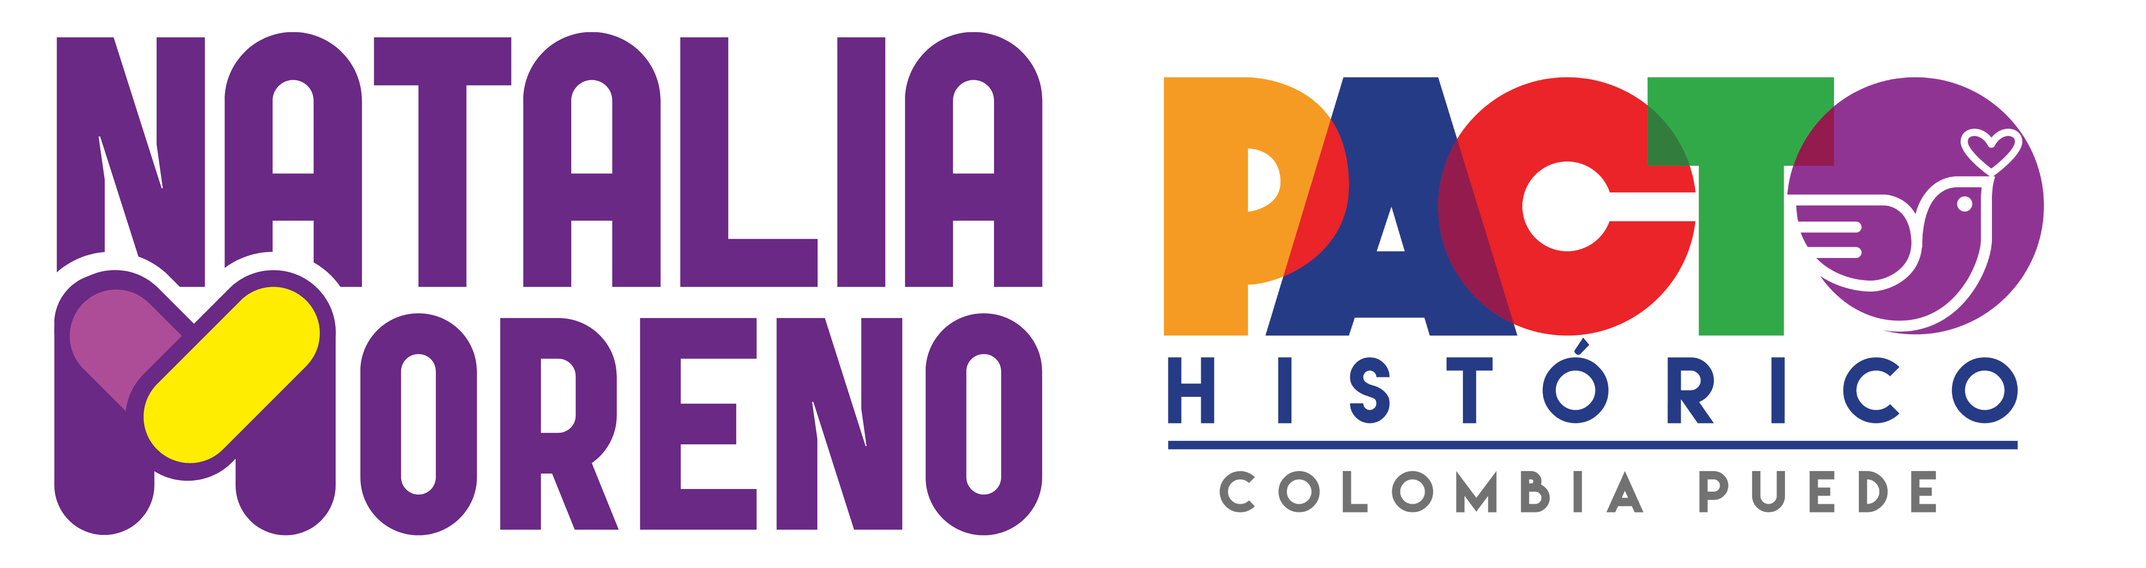
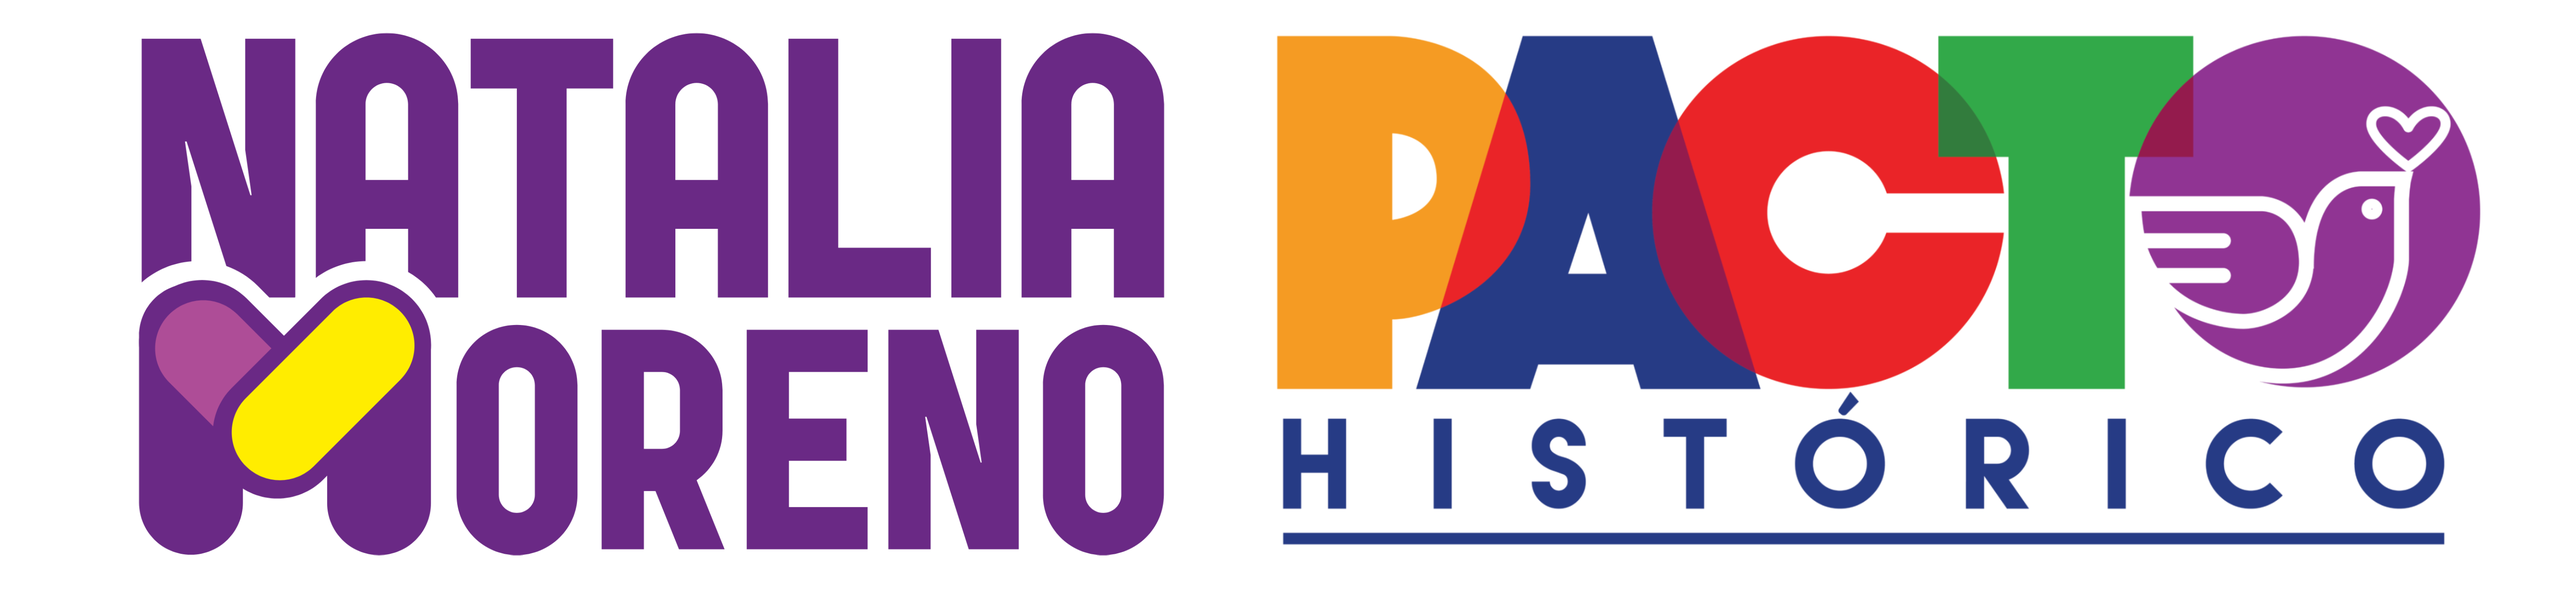
update hero branding, navigation behavior, and mobile UI components

diff --git a/assets/css/main.css b/assets/css/main.css
@@ -974,7 +974,6 @@ a.image:hover img { transform: scale(1.05); }
     z-index: 1000;
     transition: background-color 0.5s ease;
 }
-body.scrolled #top-nav { background-color: #3f016e; box-shadow: 0 2px 10px rgba(0,0,0,0.1); }
 .nav-left { display: flex; align-items: center; gap: 1.5rem; margin-left: 2rem; flex: 1; }
 .nav-left a {
     color: #3f016e;
@@ -993,7 +992,7 @@ body.scrolled #top-nav .nav-left a {
 
 .nav-left a:hover { color: #18bfef; }
 .nav-center { display: flex; justify-content: center; align-items: center; flex: 1; }
-.nav-logo-image { width: 125px; height: auto; display: block; }
+.nav-logo-image { width: 250px; height: auto; display: block; }
 .nav-right { display: flex; align-items: center; justify-content: flex-end; margin-right: 2rem; flex: 1; }
 
 /* Dropdowns */
@@ -1052,7 +1051,24 @@ body.scrolled #top-nav .nav-left a {
     margin-top: 0;
 }
 
-#intro h1 { font-size: 3rem; line-height: 1; text-align: left; color: #3f016e !important; }
+#intro h1 {
+    font-family: "Source Sans Pro", Helvetica, sans-serif; /* Keep original font */
+    font-size: 3.5rem;
+    line-height: 1.1;
+    margin-bottom: 1.5rem;
+    color: #3f016e !important; /* Ensure it stays purple */
+    text-transform: uppercase;
+}
+
+/* Specific style for the subheading */
+#intro h1 .sub-heading-text {
+    display: block;             /* Moves it to a new line */
+    font-size: 1.6rem;          /* Smaller as requested */
+    font-weight: 900;           /* Keeps the heavy weight of the original font */
+    letter-spacing: 0.05em;
+    margin-top: 0.25rem;
+}
+
 #intro p { font-size: 0.80rem; font-style: italic; margin-top: -0.25rem; text-align: left; color: #3f016e !important; }
 #intro a { color: #ffffff; border-bottom-color: rgba(255, 255, 255, 0.5); }
 #intro a:hover { border-bottom-color: transparent; color: #18bfef !important; }
@@ -1065,10 +1081,27 @@ body.scrolled #top-nav .nav-left a {
 }
 body.is-preload #intro { transform: translateY(2rem); opacity: 0; }
 
-.split-hero { display: flex; align-items: center; width: 100%; max-width: 1200px; margin: 0 auto; gap: 2rem; }
-.hero-content { flex: 1; text-align: left; }
-.hero-image { flex: 1; }
-.hero-image img { max-width: 100%; height: auto; display: block; }
+.split-hero { 
+    display: flex; 
+    align-items: center; 
+    width: 100%; 
+    max-width: 1400px; /* Increased from 1200px to give it more room to move */
+    margin: 0;         /* Changed from '0 auto' to '0' to align the container left */
+    gap: 0rem; 
+}
+.hero-content { flex: 0.8; text-align: left; }
+.hero-image { 
+    flex: 1.2; 
+    margin-left: -5rem; /* Shifting the container to the left */
+    position: relative;
+    z-index: 1;
+}
+.hero-image img { 
+    max-width: 100%;    /* Slightly larger to help with the shift */
+    height: auto; 
+    display: block; 
+    margin-left: 4rem; /* Shifting the actual image within the container */
+}
 
 /* --- Section Backgrounds --- */
 section.special, article.special { text-align: center; }
@@ -1314,7 +1347,14 @@ header.major > .date:after { right: 0; }
         min-height: 100vh !important; 
         padding: 3rem 1rem 2rem 1rem !important; 
     }
-    #intro h1 { font-size: 3rem; line-height: 1.1; margin-bottom: 1rem; }
+    @media screen and (max-width: 736px) {
+        #intro h1.main-heading {
+            font-size: 2.5rem;
+        }
+        #intro h1.main-heading .sub-heading {
+            font-size: 1.2rem;
+        }
+    }
     #intro p { font-size: 1rem; margin-top: 0rem; }
     #intro .actions { display: none; }
     #intro .button { font-size: 0.8rem !important; display: block; width: 100%; }
@@ -1474,4 +1514,40 @@ html, body {
     height: auto !important;
     aspect-ratio: 9/16;       /* Standard vertical video ratio */
     min-height: 500px;        /* Safety minimum height */
+}
+
+@media screen and (max-width: 736px) {
+    /* Slightly adjust volunteer button position for the smaller icon */
+    .mobile-parche-btn.mobile-only {
+        right: 75px !important; 
+        padding: 0 1rem !important;
+    }
+
+    /* Smaller WhatsApp button with purple outline */
+    .mobile-whatsapp-float {
+        display: flex !important;
+        align-items: center;
+        justify-content: center;
+        position: fixed;
+        top: 25px;
+        right: 25px;
+        z-index: 10001;
+        background-color: #ffffff !important; /* Matches volunteer button background */
+        color: #25d366 !important;            /* Keeps WhatsApp icon green */
+        width: 2.5rem;                         /* Matches height of volunteer btn (approx 40px) */
+        height: 2.5rem;
+        border-radius: 50%;
+        font-size: 1.2rem;
+        box-shadow: 0 4px 10px rgba(0,0,0,0.15);
+        transition: all 0.3s ease;
+        
+        /* The Purple Outline */
+        border: 2px solid #3f016e !important; 
+    }
+
+    /* Optional: Hover state to match campaign style */
+    .mobile-whatsapp-float:active {
+        background-color: #3f016e !important;
+        color: #ffffff !important;
+    }
 }

diff --git a/index.html b/index.html
@@ -17,6 +17,14 @@
 
 		<a href="#volunteer-natalia" class="mobile-parche-btn mobile-only">¡Voluntariado!</a>
 
+		<a href="https://wa.me/573214936639?text=Hola%20Natalia,%20vengo%20de%20tu%20página%20web." 
+		class="mobile-whatsapp-float mobile-only" 
+		target="_blank">
+		<i class="fab fa-whatsapp"></i>
+		</a>
+		
+		<a href="#volunteer-natalia" class="mobile-parche-btn mobile-only">¡Voluntariado!</a>
+
 		<div id="mobile-menu-overlay">
 			<nav>
 				<ul>
@@ -70,9 +78,12 @@
 					<div class="hero-image">
 						<img src="images/pic01.png" alt="Natalia Moreno" />
 					</div>
-					<div class="hero-content">
-						<h1>EL PODER DE LA VERDAD</h1>
-						<p>Marca una X en los tarjetones de Cámara y Senado. ¡Hablemos, escríbeme y empecemos a parchar!</p>
+				<div class="hero-content">
+					<h1>
+						EL PODER DE LA GENTE<br />
+						<span class="sub-heading-text">EN CUNDINAMARCA</span>
+					</h1>
+					<p>Marca una X en los tarjetones de Cámara y Senado. ¡Hablemos, escríbeme y empecemos a parchar!</p>
 						<ul class="actions stacked">
 							<li>
 								<a href="https://wa.me/573214936639?text=Hola%20Natalia,%20vengo%20de%20tu%20página%20web%20y%20quiero%20más%20información." 
@@ -81,7 +92,7 @@
 								Hablemos por WhatsApp
 								</a>
 							</li>
-							<li><a href="#volunteer-natalia" class="button large fit">Unete Como Voluntari@</a></li>
+							<li><a href="#volunteer-natalia" class="button large fit">Únete Como Voluntari@</a></li>
 						</ul>
 					</div>
 				</div>
@@ -122,7 +133,7 @@
 
 				<section id="proposals-natalia">
 					<header class="major">
-						<h2>Lo que propongo</h2>
+						<h2>Nuestro Trabajo Con La Gente de Cundinamarca</h2>
 					</header>
 					
 					<div class="row gtr-uniform">

diff --git a/assets/js/main.js b/assets/js/main.js
@@ -97,17 +97,6 @@
 		});
 	}
 
-	// 5. Desktop Top Nav & Logo Scroll Effect
-	if ($topNav.length > 0) {
-		$window.on('scroll', function() {
-			if ($window.scrollTop() > 100) {
-				$body.addClass('scrolled');
-			} else {
-				$body.removeClass('scrolled');
-			}
-		});
-	}
-
 	// 6. Custom Mobile Splash Menu
 	if ($menuToggle.length > 0) {
 		$menuToggle.on('click', function() {
@@ -120,17 +109,6 @@
 			$menuToggle.removeClass('open');
 			$menuOverlay.removeClass('active');
 			$body.css('overflow', 'auto');
-		});
-	}
-
-	// 7. Desktop Top Nav logic
-	if ($topNav.length > 0) {
-		$window.on('scroll', function() {
-			if ($window.scrollTop() > 50) {
-				$body.addClass('scrolled');
-			} else {
-				$body.removeClass('scrolled');
-			}
 		});
 	}
 
@@ -171,22 +149,22 @@
 
 	// Dynamic "Parchar" Button Toggle Logic
 	var $parcheBtn = $('.mobile-parche-btn');
+	var $whatsappBtn = $('.mobile-whatsapp-float'); // Add this
 	var $volunteerSection = $('#volunteer-natalia');
 
 	if ($parcheBtn.length > 0 && $volunteerSection.length > 0) {
 		$window.on('scroll', function() {
-			// Calculate when the user is near the volunteer section
-			// We subtract 300px to trigger the change slightly before they hit the section
 			var volunteerPos = $volunteerSection.offset().top - 300;
 
 			if ($window.scrollTop() >= volunteerPos) {
-				// Change to "Back to Top" mode
 				$parcheBtn.text('VOLVER ARRIBA');
 				$parcheBtn.attr('href', '#intro');
+				// Optional: Hide WhatsApp button at the bottom if you prefer
+				$whatsappBtn.css('opacity', '0.5'); 
 			} else {
-				// Reset to "Parchar" mode
 				$parcheBtn.text('¡Voluntariado!');
 				$parcheBtn.attr('href', '#volunteer-natalia');
+				$whatsappBtn.css('opacity', '1');
 			}
 		});
 	}
